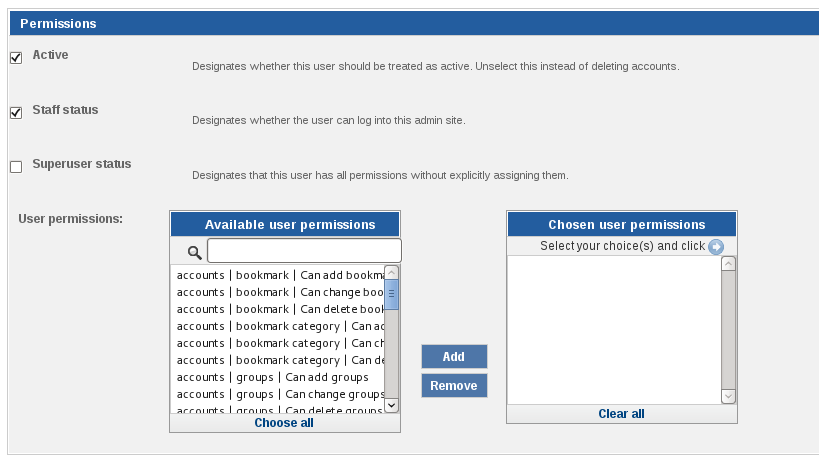
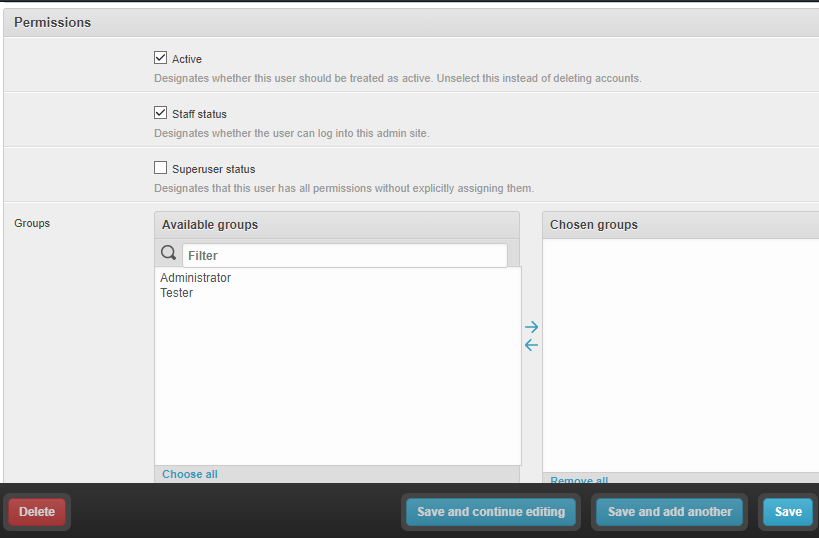
Admin.rst - update pics to reflect new UI
Updated pictures to reflect the new UI.

diff --git a/docs/source/admin.rst b/docs/source/admin.rst
@@ -27,6 +27,7 @@ in devel mode. To update the setting go to
 Update **Domain name** to the fully qualified domain name or IP address,
 including port if necessary and click the Save button!
 
+|Base URL configuration|
 
 .. _configure-bug-trackers:
 
@@ -90,7 +91,7 @@ To add a group:
 
 #. In the add group screen, perform the following actions:
 
-   -  Enter the **Group Name**.
+   -  Enter the **Name** for the group.
    -  From **Available permissions**, select the Group's permissions.
 
 #. Click **Add**.
@@ -322,7 +323,7 @@ performed or convey additional information about the test case. Similar
 information may also be conveyed with tags, properties or in other way
 so it is up to you to decide how you want to organize your testing workflow!
 
-
+.. |Base URL configuration| image:: ./_static/Configure_base_url.png
 .. |The Administration screen| image:: ./_static/Admin_Home.png
 .. |The Auth screen| image:: ./_static/Auth_Home.png
 .. |The Admin menu 1| image:: ./_static/Click_Auth.png
